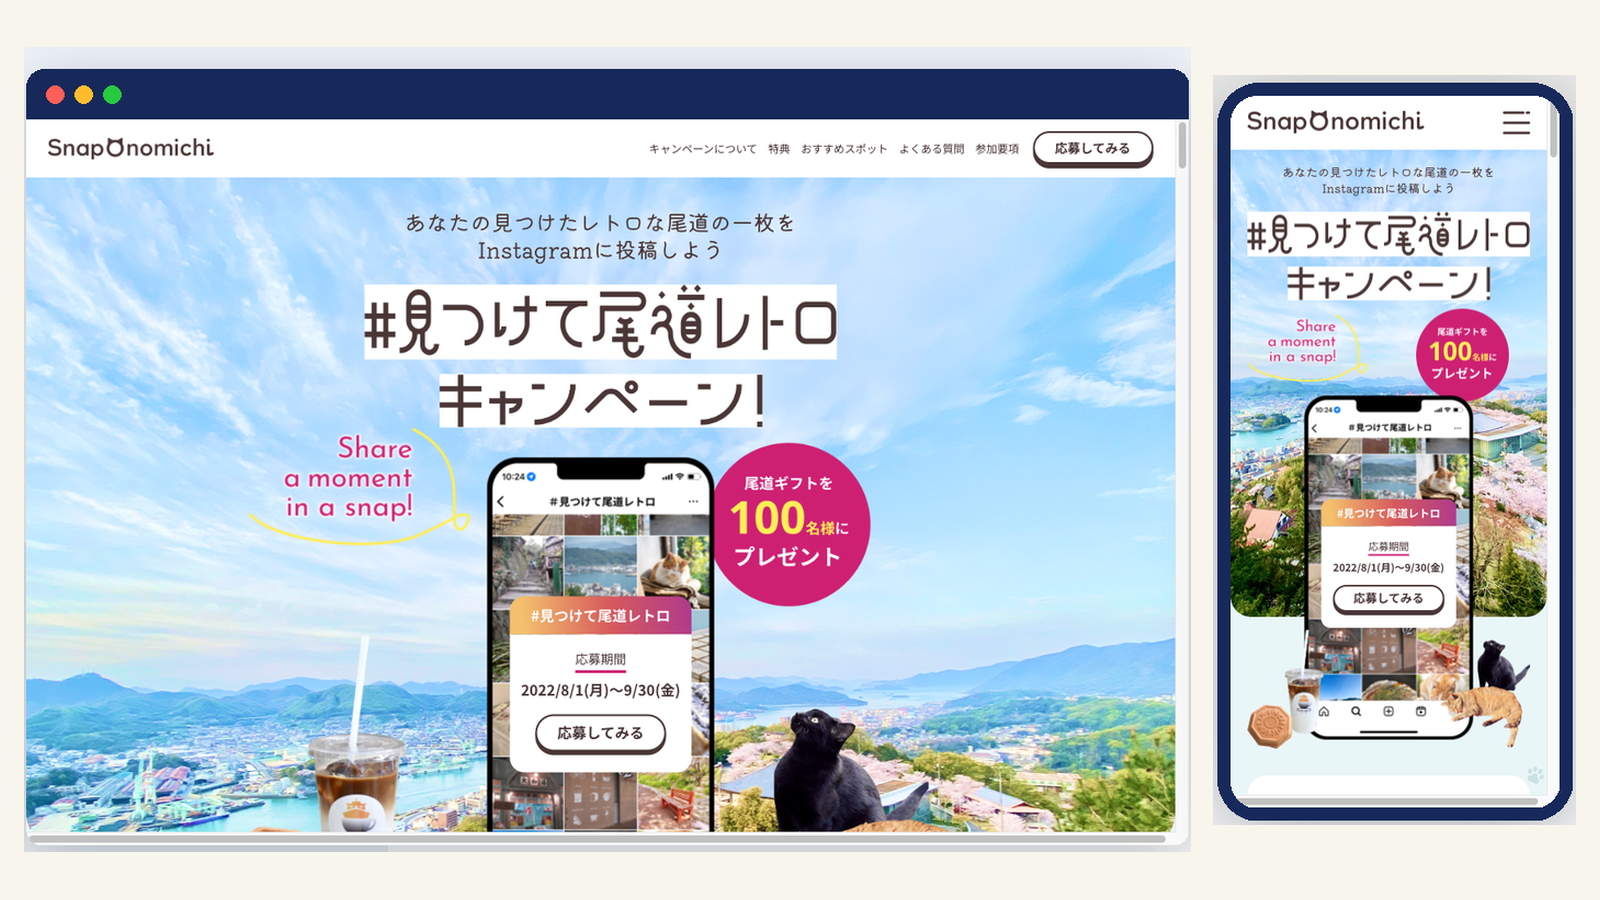
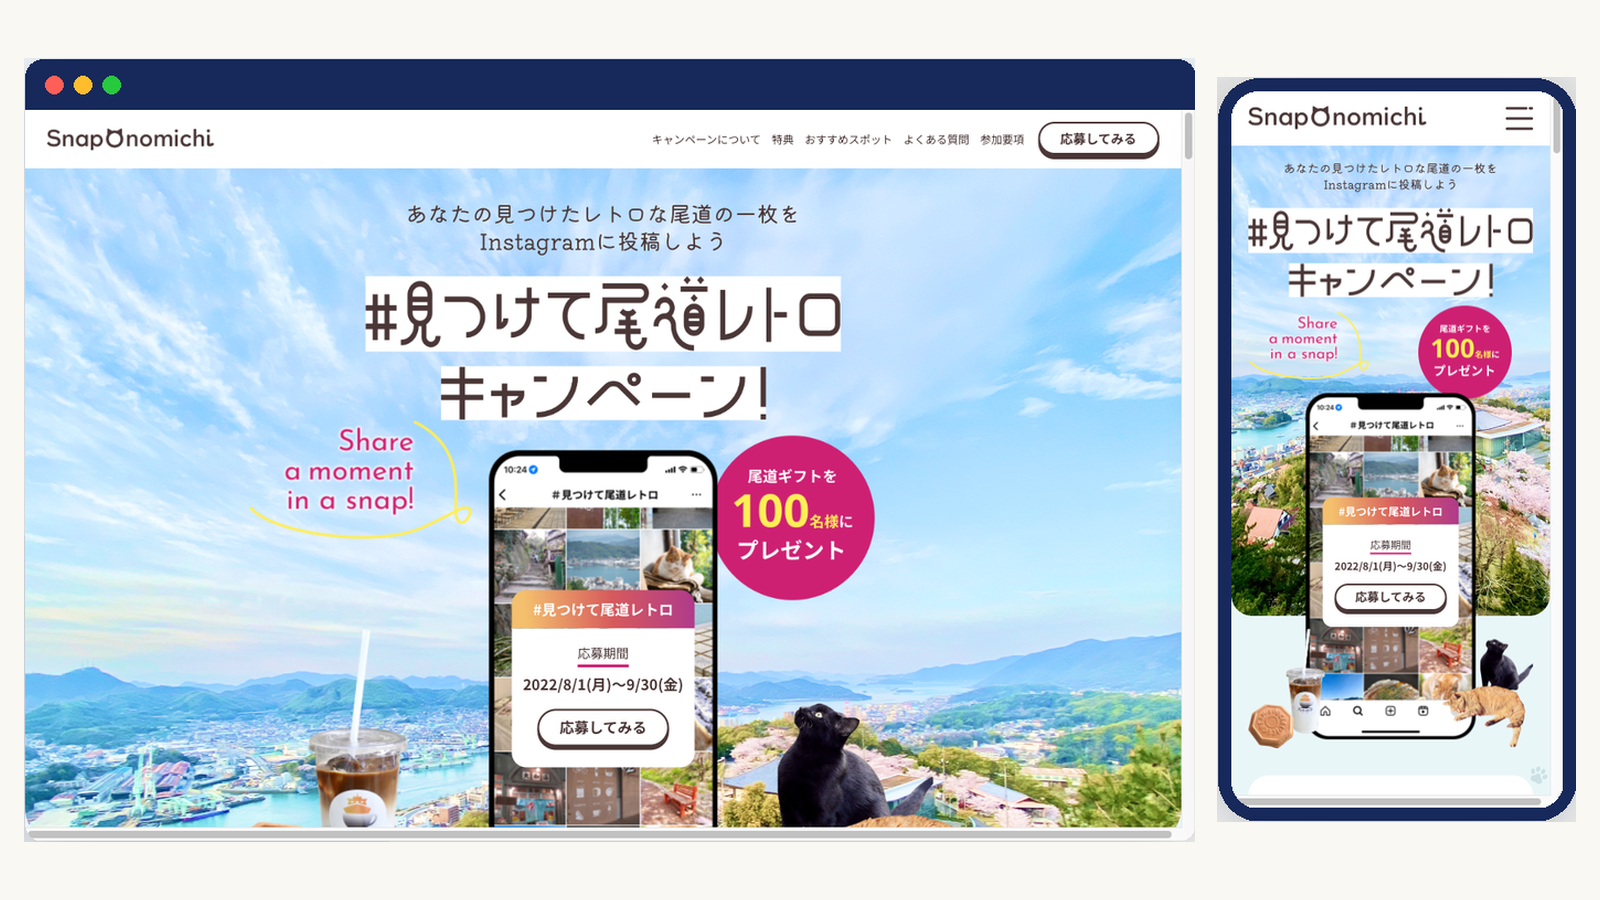
fix: WORKSサムネイル4枚に残っていた淡い枠感を除去
前回の装飾背景削除では、ブラウザ/スマホウィンドウの外側にあった
box-shadow風の緩やかなグラデーション（影）までクロップ範囲に
含んでしまい、新しいクリーム背景との境目が薄い「枠」として
見えていた。

ウィンドウ本体ぎりぎりまでクロップ範囲をタイトに詰め直し
（影のグラデーション部分を除去）、背景色もより白に近いクリーム
（#FAF8F2）に調整。元のオリジナル画像（直前コミットの1つ前）から
再度クロップ・拡大処理をやり直した。

Claude-Session: https://claude.ai/code/session_017hkWUornLUR84JgGG4xm7q

diff --git a/js/main.js b/js/main.js
@@ -176,7 +176,7 @@ const worksData = {
   onomichi: {
     category: "LP / 課題制作",
     title: "デイトラ課題LP「SnapOnomichi」",
-    image: "img/onomichi.png?v=20260829",
+    image: "img/onomichi.png?v=20260829b",
     description:
       "デイトラの課題として取り組んだLPです。実案件ではなく、指定デザインをもとにレスポンシブ対応と動きの実装を行いました。ベーシック認証がかかっているため、閲覧時はユーザー名 onomichi / パスワード demo を入力してください。",
     role: "課題対応：コーディング・レスポンシブ調整",
@@ -201,7 +201,7 @@ const worksData = {
   blog: {
     category: "Media",
     title: "個人運営ブログメディア",
-    image: "img/blog-media.png?v=20260829",
+    image: "img/blog-media.png?v=20260829b",
     description:
       "お金・仕事・暮らしをテーマにした個人メディア（累計400記事以上）。検索意図に合わせて、記事構成と内部導線を整理しています。",
     role: "企画・執筆・サイト運営・SEO対策",
@@ -226,7 +226,7 @@ const worksData = {
   genel: {
     category: "Corporate",
     title: "GeneL inc. コーポレートサイト",
-    image: "img/genel-top.png?v=20260829",
+    image: "img/genel-top.png?v=20260829b",
     description:
       "IT企業のコーポレートサイト。構成検討から参加し、採用ページのコーディングを担当しました。",
     role: "ワイヤーフレーム・デザイン参加・recruitページコーディング（チーム開発）",
@@ -251,7 +251,7 @@ const worksData = {
   minamiClinic: {
     category: "WordPress / 課題制作",
     title: "デイトラ課題サイト「みなみ歯科クリニック」",
-    image: "img/minami-clinic.png?v=20260829",
+    image: "img/minami-clinic.png?v=20260829b",
     description:
       "デイトラの課題として取り組んだ歯科医院向けWordPressサイトです。実案件ではなく、デモ環境のため、閲覧時はユーザー名 demo / パスワード demo を入力してください。",
     role: "課題対応：WordPress構築・コーディング・レスポンシブ調整",

diff --git a/index.html b/index.html
@@ -391,7 +391,7 @@
               aria-label="GeneL inc. コーポレートサイトの詳細を見る"
             >
               <img
-                src="img/genel-top.png?v=20260829"
+                src="img/genel-top.png?v=20260829b"
                 loading="lazy"
                 decoding="async"
                 alt="GeneL inc."
@@ -419,7 +419,7 @@
               aria-label="個人運営メディアの詳細を見る"
             >
               <img
-                src="img/blog-media.png?v=20260829"
+                src="img/blog-media.png?v=20260829b"
                 loading="lazy"
                 decoding="async"
                 alt="ブログメディア"
@@ -442,7 +442,7 @@
               aria-label="デイトラ課題LPの詳細を見る"
             >
               <img
-                src="img/onomichi.png?v=20260829"
+                src="img/onomichi.png?v=20260829b"
                 loading="lazy"
                 decoding="async"
                 alt="SnapOnomichi"
@@ -468,7 +468,7 @@
               aria-label="歯科医院課題サイトの詳細を見る"
             >
               <img
-                src="img/minami-clinic.png?v=20260829"
+                src="img/minami-clinic.png?v=20260829b"
                 loading="lazy"
                 decoding="async"
                 alt="みなみ歯科クリニック"
@@ -1639,6 +1639,6 @@
     </footer>
 
     <!-- Main JavaScript -->
-    <script src="js/main.js?v=20260829f"></script>
+    <script src="js/main.js?v=20260829g"></script>
   </body>
 </html>
